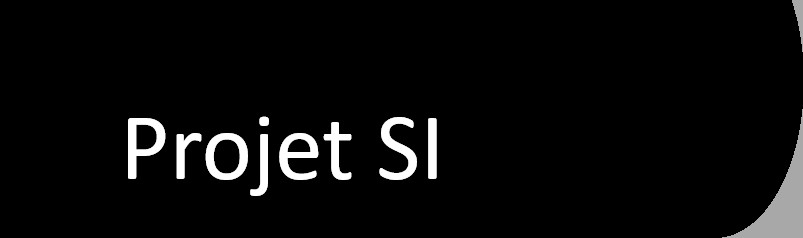
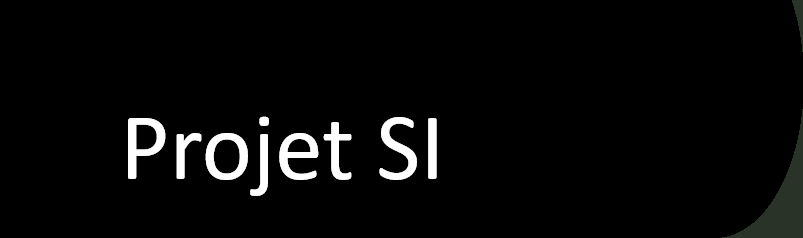
Add files via upload

Changed region(s): [[0.9029, 0.4412, 1.0, 1.0], [0.9651, 0.0, 1.0, 0.2353]]

diff --git a/siteweb.html b/siteweb.html
@@ -1,0 +1,241 @@
+<!DOCTYPE html>
+<html lang="fr">
+<head>
+    <meta charset="UTF-8">
+    <meta name="viewport" content="width=device-width, initial-scale=1.0">
+    <title>Présentation - Projet SI</title>
+    <link rel="stylesheet" href="style.css">
+    <style>
+        .hero {
+            background-color: #2a3d29;
+            color:  #517954;
+            border-radius: 12px;
+            padding: 50px 20px;
+            margin-bottom: 50px;
+        }
+        .hero h1 {
+            font-size: 32px;
+            margin-bottom: 10px;
+            color: #517954;
+        }
+        .hero .lieu {
+            font-size: 14px;
+            color: #517954;
+            letter-spacing: 2px;
+            text-transform: uppercase;
+            margin-bottom: 0px;
+        }
+        .blocs {
+            display: grid;
+            grid-template-columns: repeat(3, 1fr);
+            gap: 20px;
+            margin-bottom: 50px;
+        }
+        .bloc {
+            background-color: #232b22;
+            border: 1px solid #3d5c3a;
+            border-radius: 12px;
+            padding: 24px;
+        }
+        .bloc .icone {
+            font-size: 28px;
+            margin-bottom: 12px;
+        }
+        .bloc h3 {
+            font-size: 15px;
+            margin-bottom: 8px;
+            color: #111;
+        }
+        ;.bloc p {
+            font-size: 13px;
+            color: #517954;
+            margin: 0;
+            line-height: 1.6;
+        }
+        .localisation {
+            background: #232b22;
+            border: 1px solid #3d5c3a;
+            border-radius: 12px;
+            padding: 30px;
+            margin-bottom: 50px;
+            display: flex;
+            align-items: center;
+            gap: 30px;
+        }
+        .localisation .pin {
+            font-size: 48px;
+            flex-shrink: 0;
+        }
+        .localisation h2 {
+            font-size: 18px;
+            margin-bottom: 18px;
+            margin-top: 0;
+        }
+        .localisation p {
+            font-size: 14px;
+            color: #517954;
+            margin: 0;
+        }
+        .logements {
+            display: grid;
+            gap: 20px;
+            margin-bottom: 50px;
+        }
+        .logement {
+            flex: 1;
+            background: #2a3d29;
+            color: #517954;
+            border-radius: 12px;
+            padding: 24px;
+            text-align: center;
+        }
+        .logement .nombre {
+            font-size: 36px;
+            font-weight: bold;
+            margin-bottom: 4px;
+        }
+        .logement .type {
+            font-size: 13px;
+            color: #aaa;
+            letter-spacing: 1px;
+        }
+    .galerie-placeholder {
+      display: grid;
+      grid-template-columns: repeat(3, 1fr);
+      gap: 16px;
+      margin-bottom: 50px;
+    }
+    .photo-placeholder {
+      background: #232b22;
+      border-radius: 10px;
+      height: 180px;
+      display: flex;
+      flex-direction: column;
+      align-items: center;
+      justify-content: center;
+      color: #2a3d29;
+      font-size: 13px;
+      gap: 8px;
+      border: 2px dashed #517954;
+    }
+    .photo-placeholder span {
+      font-size: 30px;
+    }
+    </style>
+</head>
+<body>
+    <nav>
+        <div class="logo">
+  <img src="présentation.png" alt="Projet SI">
+</div>
+        <ul>
+            <li><a href="siteweb.html" class="active">Présentation</a></li>
+            <li><a href="caracteristiques.html">Caractéristiques</a></li>
+            <li><a href="maquette.html">Maquette</a></li>
+        </ul>
+    </nav>
+    <main>
+        <div class="hero">
+            <h1>Projet SI - Présentation</h1>
+            <p class="lieu">Ruisseau de Loverchy — Annecy</p>
+            <h1>Résidence du Loverchy</h1>
+            <p>Conception d'un immeuble résidentiel de 10 logements alliant
+        confort acoustique, diversité des typologies et stationnement intégré.</p>
+        </div>
+     <h2>Pourquoi ce projet ?</h2>
+     <div class="blocs">
+       <div class="bloc">
+         <div class="icone"></div>
+         <h3>Répondre au besoin en logements</h3>
+         <p> Proposer 10 logements variés (T2, T3, T5) pour répondre
+          aux besoins de différents profils de ménages à Annecy.</p>
+       </div>
+       <div class="bloc">
+         <div class="icone"></div>
+         <h3>Réduire les nuisances sonores</h3>
+         <p> Le bâtiment est conçu pour atténuer les bruits de la route
+          grâce à des matériaux et une orientation adaptés.</p>
+       </div>
+       <div class="bloc">
+         <div class="icone"></div>
+         <h3>Prévoir un parking</h3>
+         <p>
+           Un espace de stationnement est intégré au projet pour
+          faciliter la vie des résidents.
+         </p>
+       </div>
+    <div>
+         <h2>Composition du batiment</h2>
+         <div class="logements">
+           <div class="logement">
+             <div class="nombre">T2</div>
+             <div class="type">Petits logements</div>
+           </div>
+           <div class="logement">
+             <div class="nombre">T3</div>
+             <div class="type">Logements intermédiaires</div>
+           </div>
+           <div class="logement">
+             <div class="nombre">T5</div>
+             <div class="type">Logements spacieux</div>
+           </div>
+           <div class="logement">
+             <div class="nombre">10</div>
+             <div class="type">Logements au total</div>
+           </div>
+    </div>
+     <h2>Localisation</h2>
+     <div class="localisation">
+       <div class="pin"></div>
+       <div>
+         <h2>Ruisseau de Loverchy, Annecy</h2>
+         <p>
+           Le terrain se situe au bord du Ruisseau de Loverchy à Annecy (74).
+          Ce secteur résidentiel est à proximité d'axes routiers importants,
+          ce qui justifie la prise en compte de l'isolation acoustique
+          dans la conception du bâtiment.
+         </p>
+       </div>
+     </div>
+      <h2>Visuels du projet</h2>
+      <div class="galerie-placeholder">
+        <div class="photo-placeholder">
+          <span></span>
+          <p>Photos de la maquette à venir</p>
+        </div>
+        <div class="photo-placeholder">
+          <span></span>
+          <p>Photos de la maquette à venir</p>
+        </div>
+        <div class="photo-placeholder">
+          <span></span>
+          <p>Photos de la maquette à venir</p>
+        </div>
+    </div>
+  <div class="vignettes">
+    <a href="siteweb.html" class="vignette">
+      <div class="vignette-texte">
+        <h3>Présentation</h3>
+        <p>Découvrez le contexte et les objectifs du projet.</p>
+      </div>
+    </a>
+    <a href="caracteristiques.html" class="vignette">
+      <div class="vignette-texte">
+        <h3>Caractéristiques</h3>
+        <p>Les données techniques de la structure.</p>
+      </div>
+    </a>
+    <a href="maquette.html" class="vignette">
+      <div class="vignette-texte">
+        <h3>Maquette</h3>
+        <p>Photos et détails de la maquette réalisée.</p>
+      </div>
+    </a>
+  </div>
+</main>
+    <footer>
+        <p>&copy; 2026 Projet SI. Tous droits réservés.</p>
+        <p>Créé par : <u><strong>Mattew Margotteau,Rémi Jacob,Ethan Guinand</strong></u></p>
+    </footer>
+</body>
+</html>

diff --git a/style.css b/style.css
@@ -6,13 +6,13 @@
 
 body{
     font-family: 'Segoe UI', sans-serif;
-    background: #bebebe;
-    color: #222;
+    background: #1a1f1a;
+    color: #d4e8d0;
 }
 
 nav{
-    background-color: #A8A8A8;
-    border-bottom: 2px solid #A8A8A8;
+    background-color: #2a3328;
+    border-bottom: 2px solid #3d5c3a;
     padding: 16px 40px;
     display: flex;
     justify-content: space-between;
@@ -32,19 +32,19 @@ nav ul{
 
 nav ul li a{
     text-decoration: none;
-    color: #333;
+    color: #a8c9a0;
     font-size: 15px;
     transition: color 0.2s;
 }
 
 nav ul li a:hover{
-    color: #000;
+    color: #ffffff;
 }
 
 nav ul li a.active{
-    color: #000;
+    color: #6dbf67;
     font-weight: bold;
-    border-bottom: 2px solid #000;
+    border-bottom: 2px solid #6dbf67;
     padding-bottom: 4px;
 }
 
@@ -62,7 +62,7 @@ h1{
 h2{
     font-size: 24px;
     margin-bottom: 20px 0 12px;
-    color: #333;
+    color: #a8d5a2;
 }
 
 p{
@@ -73,10 +73,10 @@ p{
 }
 
 footer{
-    border-top: 1px solid #e0e0e0;
+    border-top: 1px solid #3d5c3a;
     padding: 30px;
     text-align: center;
-    color: #999;
+    color: #5a7a56;
     font-size: 13px;
     margin-top: 80px;
 }
@@ -90,8 +90,8 @@ footer{
 
 .vignette{
     text-decoration: none;
-    background: #ffffff;
-    border: 1px solid #e0e0e0;
+    background: #232b22;
+    border: 1px solid #3d5c3a;
     border-radius: 12px;
     overflow: hidden;
     transition: transform 0.2s, box-shadow 0.2s;

diff --git a/caracteristiques.html b/caracteristiques.html
@@ -13,8 +13,8 @@
             margin-top: 30px;
         }
         .cartes .carte {
-            background-color: #ffffff;
-            border: 1px solid #e0e0e0;
+            background-color: #232b22;
+            border: 1px solid #3d5c3a;
             border-radius: 10px;
             padding: 24px;
         }
@@ -25,7 +25,7 @@
         }
         .cartes p {
             font-size: 14px;
-            color: #666;
+            color: #517954;
             margin: 0;
         }
     </style>

diff --git a/maquette.html b/maquette.html
@@ -17,11 +17,11 @@
         height: 260px;
         object-fit: cover;
         border-radius: 10px;
-        border: 1px solid #e0e0e0;
+        border: 1px solid #517954;
     }
     .galerie .legende {
         font-size: 13px;
-        color: #888;
+        color: #517954;
         text-align: center;
         margin-top: 6px;
     }